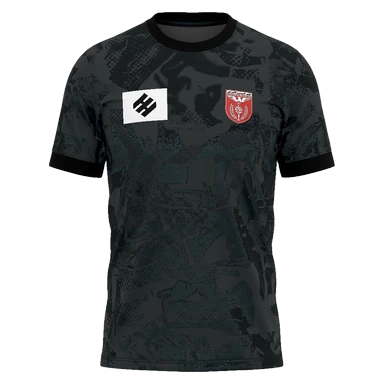
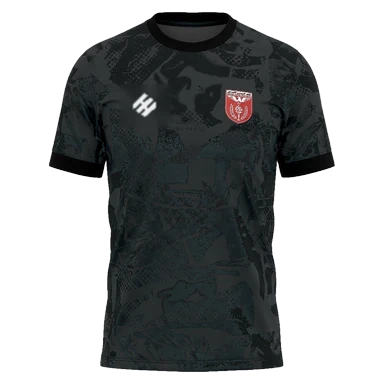
حارس النصر: شعار الماركة مطبوع أبيض على القميص بدل المربع الأبيض — KIT_V 4، sw -82، fantasy 208

Changed region(s): [[0.3125, 0.2188, 0.4375, 0.3438]]

diff --git a/fantasy/index.html b/fantasy/index.html
@@ -12,7 +12,7 @@
 <link rel="preconnect" href="https://fonts.googleapis.com">
 <link rel="preconnect" href="https://fonts.gstatic.com" crossorigin>
 <link href="https://fonts.googleapis.com/css2?family=Vazirmatn:wght@300;400;500;600;700;800&display=swap" rel="stylesheet">
-<link rel="stylesheet" href="css/style.css?v=207">
+<link rel="stylesheet" href="css/style.css?v=208">
 <script src="https://cdnjs.cloudflare.com/ajax/libs/firebase/10.12.2/firebase-app-compat.min.js"></script>
 <script src="https://cdnjs.cloudflare.com/ajax/libs/firebase/10.12.2/firebase-auth-compat.min.js"></script>
 <script src="https://cdnjs.cloudflare.com/ajax/libs/firebase/10.12.2/firebase-firestore-compat.min.js"></script>
@@ -20,13 +20,13 @@
 </head>
 <body>
   <div id="splash">
-    <div class="splash-card"><img class="splash-logo" src="assets/logo-light.png?v=207" alt="Kuwait Fantasy League"></div>
+    <div class="splash-card"><img class="splash-logo" src="assets/logo-light.png?v=208" alt="Kuwait Fantasy League"></div>
   </div>
 
   <header id="topbar" style="display:none">
     <div id="brand" onclick="APP.go('dashboard')">
-      <img class="brand-lockup lk-dark" src="assets/logo-dark.png?v=207" alt="Kuwait Fantasy League">
-      <img class="brand-lockup lk-light" src="assets/logo-light.png?v=207" alt="Kuwait Fantasy League">
+      <img class="brand-lockup lk-dark" src="assets/logo-dark.png?v=208" alt="Kuwait Fantasy League">
+      <img class="brand-lockup lk-light" src="assets/logo-light.png?v=208" alt="Kuwait Fantasy League">
     </div>
     <a id="toSite" href="/" title="العودة للموقع">
       <svg viewBox="0 0 24 24" width="16" height="16" fill="none" stroke="currentColor" stroke-width="2.2" stroke-linecap="round" stroke-linejoin="round" aria-hidden="true"><path d="M9 6l6 6-6 6"/></svg>
@@ -41,28 +41,28 @@
   <nav id="bottomnav"></nav>
   <div id="toasts"></div>
 
-  <script src="js/cloud.js?v=207"></script>
-  <script src="js/data.js?v=207"></script>
-  <script src="js/engine.js?v=207"></script>
-  <script src="js/ui.js?v=207"></script>
-  <script src="js/photos.js?v=207"></script>
-  <script src="js/kits.js?v=207"></script>
-  <script src="js/kits-number.js?v=207"></script>
-  <script src="js/moderation.js?v=207"></script>
-  <script src="js/views.js?v=207"></script>
-  <script src="js/picker.js?v=207"></script>
-  <script src="js/extras.js?v=207"></script>
-  <script src="js/push.js?v=207"></script>
-  <script src="js/adminauth.js?v=207"></script>
-  <script src="js/admin.js?v=207"></script>
-  <script src="js/guide.js?v=207"></script>
-  <script src="js/live-gw.js?v=207"></script>
-  <script src="js/points.js?v=207"></script>
-  <script src="js/mfsync.js?v=207"></script>
-  <script src="js/roster-sync.js?v=207"></script>
-  <script src="js/app.js?v=207"></script>
-  <script src="js/i18n.js?v=207"></script>
-  <script src="js/i18n-more.js?v=207"></script>
-  <script src="js/gate.js?v=207"></script>
+  <script src="js/cloud.js?v=208"></script>
+  <script src="js/data.js?v=208"></script>
+  <script src="js/engine.js?v=208"></script>
+  <script src="js/ui.js?v=208"></script>
+  <script src="js/photos.js?v=208"></script>
+  <script src="js/kits.js?v=208"></script>
+  <script src="js/kits-number.js?v=208"></script>
+  <script src="js/moderation.js?v=208"></script>
+  <script src="js/views.js?v=208"></script>
+  <script src="js/picker.js?v=208"></script>
+  <script src="js/extras.js?v=208"></script>
+  <script src="js/push.js?v=208"></script>
+  <script src="js/adminauth.js?v=208"></script>
+  <script src="js/admin.js?v=208"></script>
+  <script src="js/guide.js?v=208"></script>
+  <script src="js/live-gw.js?v=208"></script>
+  <script src="js/points.js?v=208"></script>
+  <script src="js/mfsync.js?v=208"></script>
+  <script src="js/roster-sync.js?v=208"></script>
+  <script src="js/app.js?v=208"></script>
+  <script src="js/i18n.js?v=208"></script>
+  <script src="js/i18n-more.js?v=208"></script>
+  <script src="js/gate.js?v=208"></script>
 </body>
 </html>

diff --git a/index.html b/index.html
@@ -9860,7 +9860,7 @@ function clubAboutHTML(c, r, played){
     <div class="wm" style="background-image:url('${crestSrcOf(c)}')"></div>
     <div class="cabout-hero"><img class="st-img" src="${stSrc}" alt="" style="${I.stPos?`object-position:${I.stPos}`:""}" decoding="async" onload="this.classList.add('on')" onerror="this.onerror=null;this.src='assets/hero/stadium.jpg'">
       ${I.st?`<span class="st-cap">${esc(I.st)}</span>`:""}
-      ${I.kit?`<div class="cabout-kits">${[[I.kit,"الطقم الأساسي"],[`${I.kit}_gk`,"طقم الحارس"]].filter(x=>x[0]).map(([f,l])=>`<figure class="ckit"><img src="fantasy/assets/kits/${f}.webp?v=3" alt="${l}" loading="lazy" decoding="async" onerror="this.parentElement.remove()"><figcaption>${l}</figcaption></figure>`).join("")}</div>`:""}
+      ${I.kit?`<div class="cabout-kits">${[[I.kit,"الطقم الأساسي"],[`${I.kit}_gk`,"طقم الحارس"]].filter(x=>x[0]).map(([f,l])=>`<figure class="ckit"><img src="fantasy/assets/kits/${f}.webp?v=4" alt="${l}" loading="lazy" decoding="async" onerror="this.parentElement.remove()"><figcaption>${l}</figcaption></figure>`).join("")}</div>`:""}
     </div>
     <div class="cabout-head">
       ${crest(c,true)}

diff --git a/fantasy/js/kits.js b/fantasy/js/kits.js
@@ -3,7 +3,7 @@
 'use strict';
 
 /* الأطقم الحقيقية 2026/27 (منصور 2026-09-15): صور منتج شفافة مبنية من صور التصوير الرسمي، بلا رقم ولا اسم. */
-const KIT_V = 3;
+const KIT_V = 4;
 const KIT_IMG = Object.fromEntries(
   ['KUW','QAD','ARB','KAZ','SAL','NSR','JAH','SAH','FAH','TDM','SHB','SLB'].map(c =>
     [c, {out:`${c}.webp?v=${KIT_V}`, gk:`${c}_gk.webp?v=${KIT_V}`}])

diff --git a/sw.js b/sw.js
@@ -9,7 +9,7 @@
 
    عند كل نشر: ارفع رقم VER فتُبنى ذاكرة جديدة وتُحذف القديمة.
    ========================================================= */
-const VER   = 'mf-2026-09-15-81';
+const VER   = 'mf-2026-09-15-82';
 const SHELL = 'shell-' + VER;
 const RUN   = 'run-'   + VER;
 
